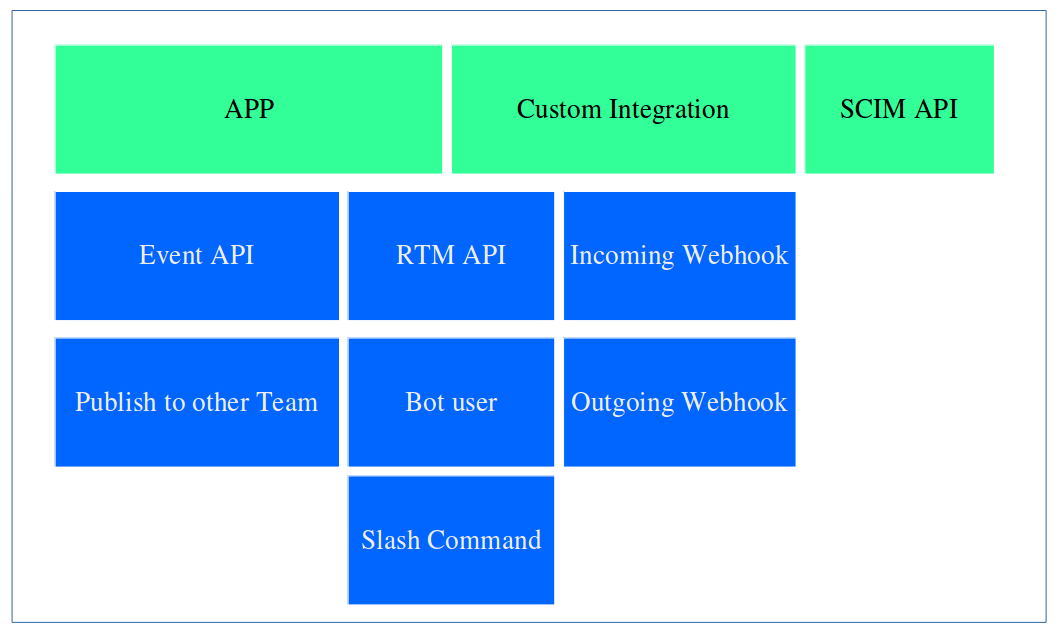
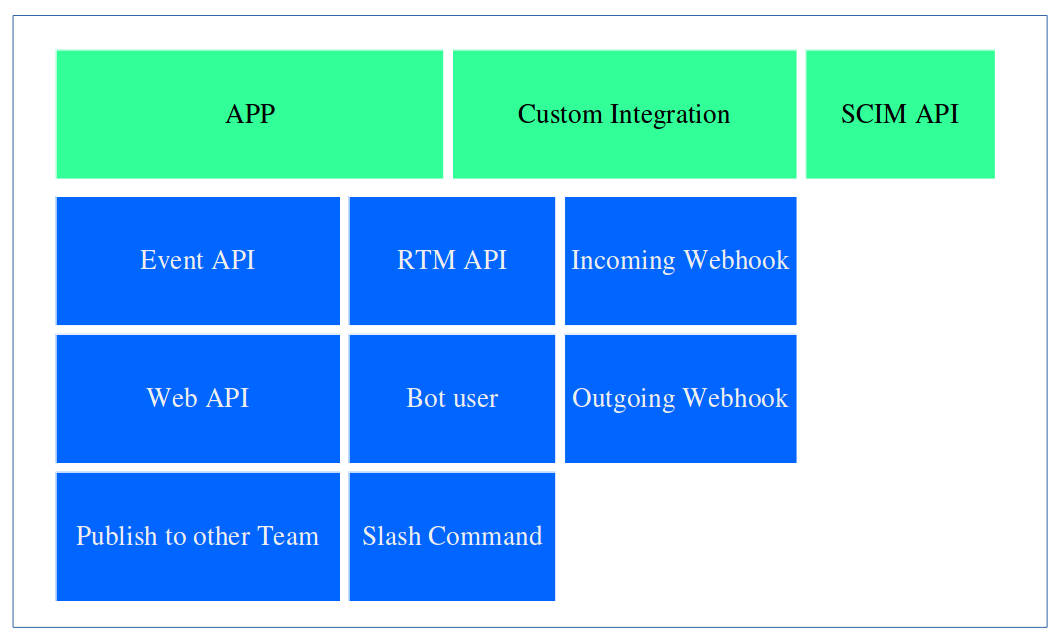
add api desc

diff --git a/bot.md b/bot.md
@@ -4,6 +4,17 @@
 
 ![slack_apis](./imgs/img_slack_apis.png)
 
-
+- [APP](./app/README.md) : 타 팀에 배포 혹은 App Directory에 배포하기위해선 App단위로 개발을 해야합니다.
+    - Event API : 허용된 권한내의 이벤트들을 지정한 url로 https 방식으로 callback을 받을 수 있습니다.
+    - Web API : 허용된 권한내의 사용할 수 있는 기능들을 슬랙서버로 https 방식으로 요청 보낼 수 있습니다. 
+    - Publish : Integration과의 차이로, 타 팀으로 배포가 가능합니다. 
+- [Custom Integration](./integration/README.md) : 간단하게 내 팀에서만 사용할거라면 Integration으로 개발할 수 있습니다.
+    - Incoming Webhook : 채팅전송 등 몇가지 기능을 POST방식으로 슬랙서버로 요청만 가능합니다.
+    - Outgoing Webhook : 특정 채널 혹은 특정 단어에 대해서 지정된 url로 http 방식으로 callback을 받을 수 있습니다.
+- APP과 Integration 공용 
+    - RTM API
+    - Bot User 
+    - Slash Command 
+- SCIM API 
 [APP GUIDE](./bot.md) 
 [INTEGRATION GUIDE](./bot.md)
